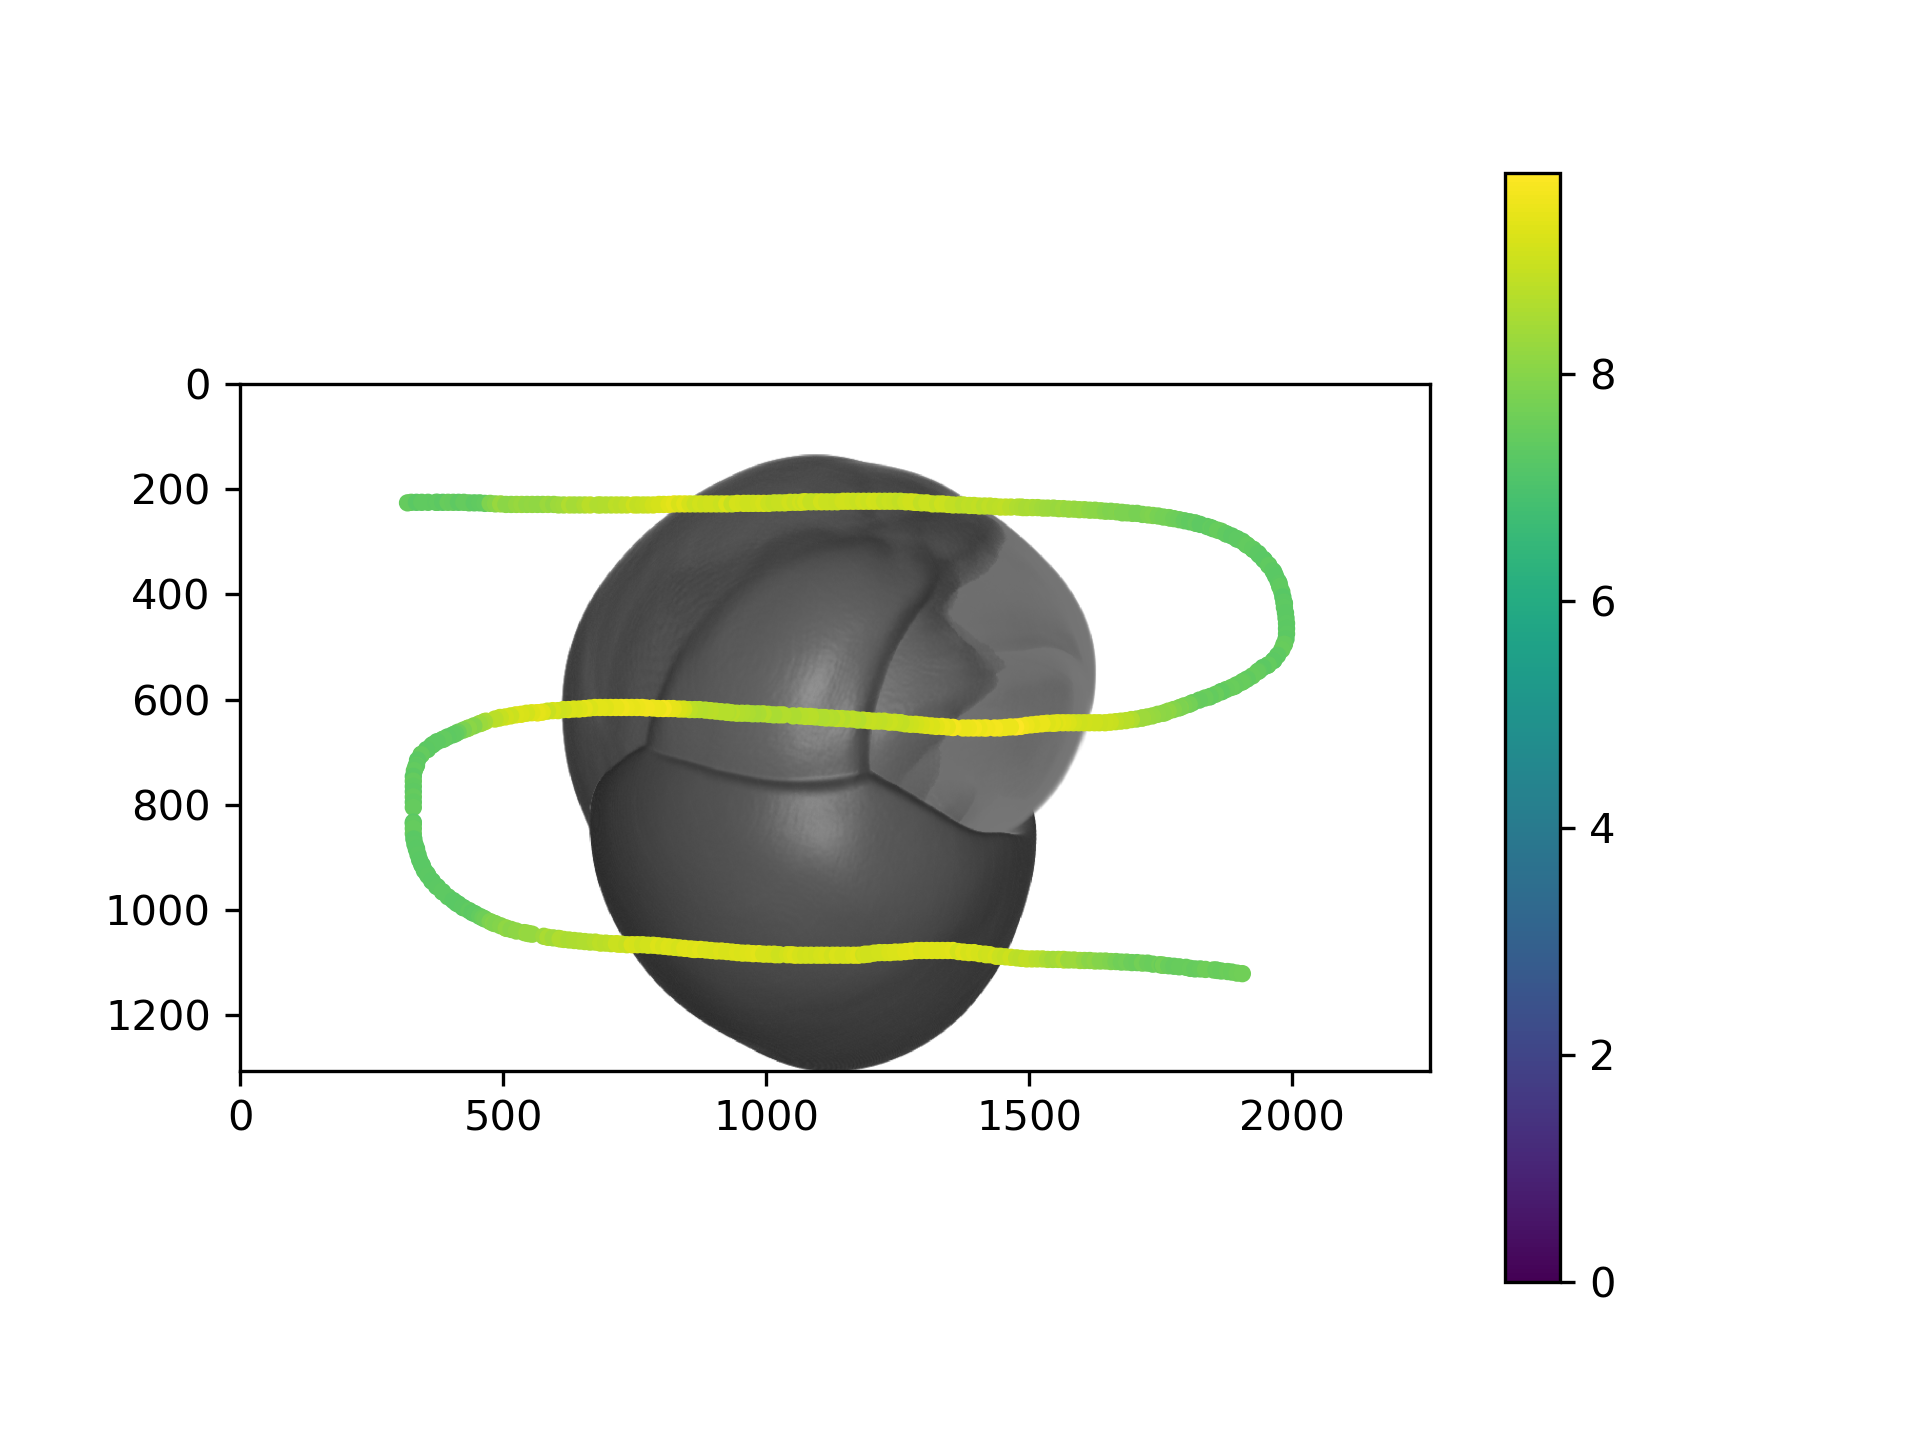
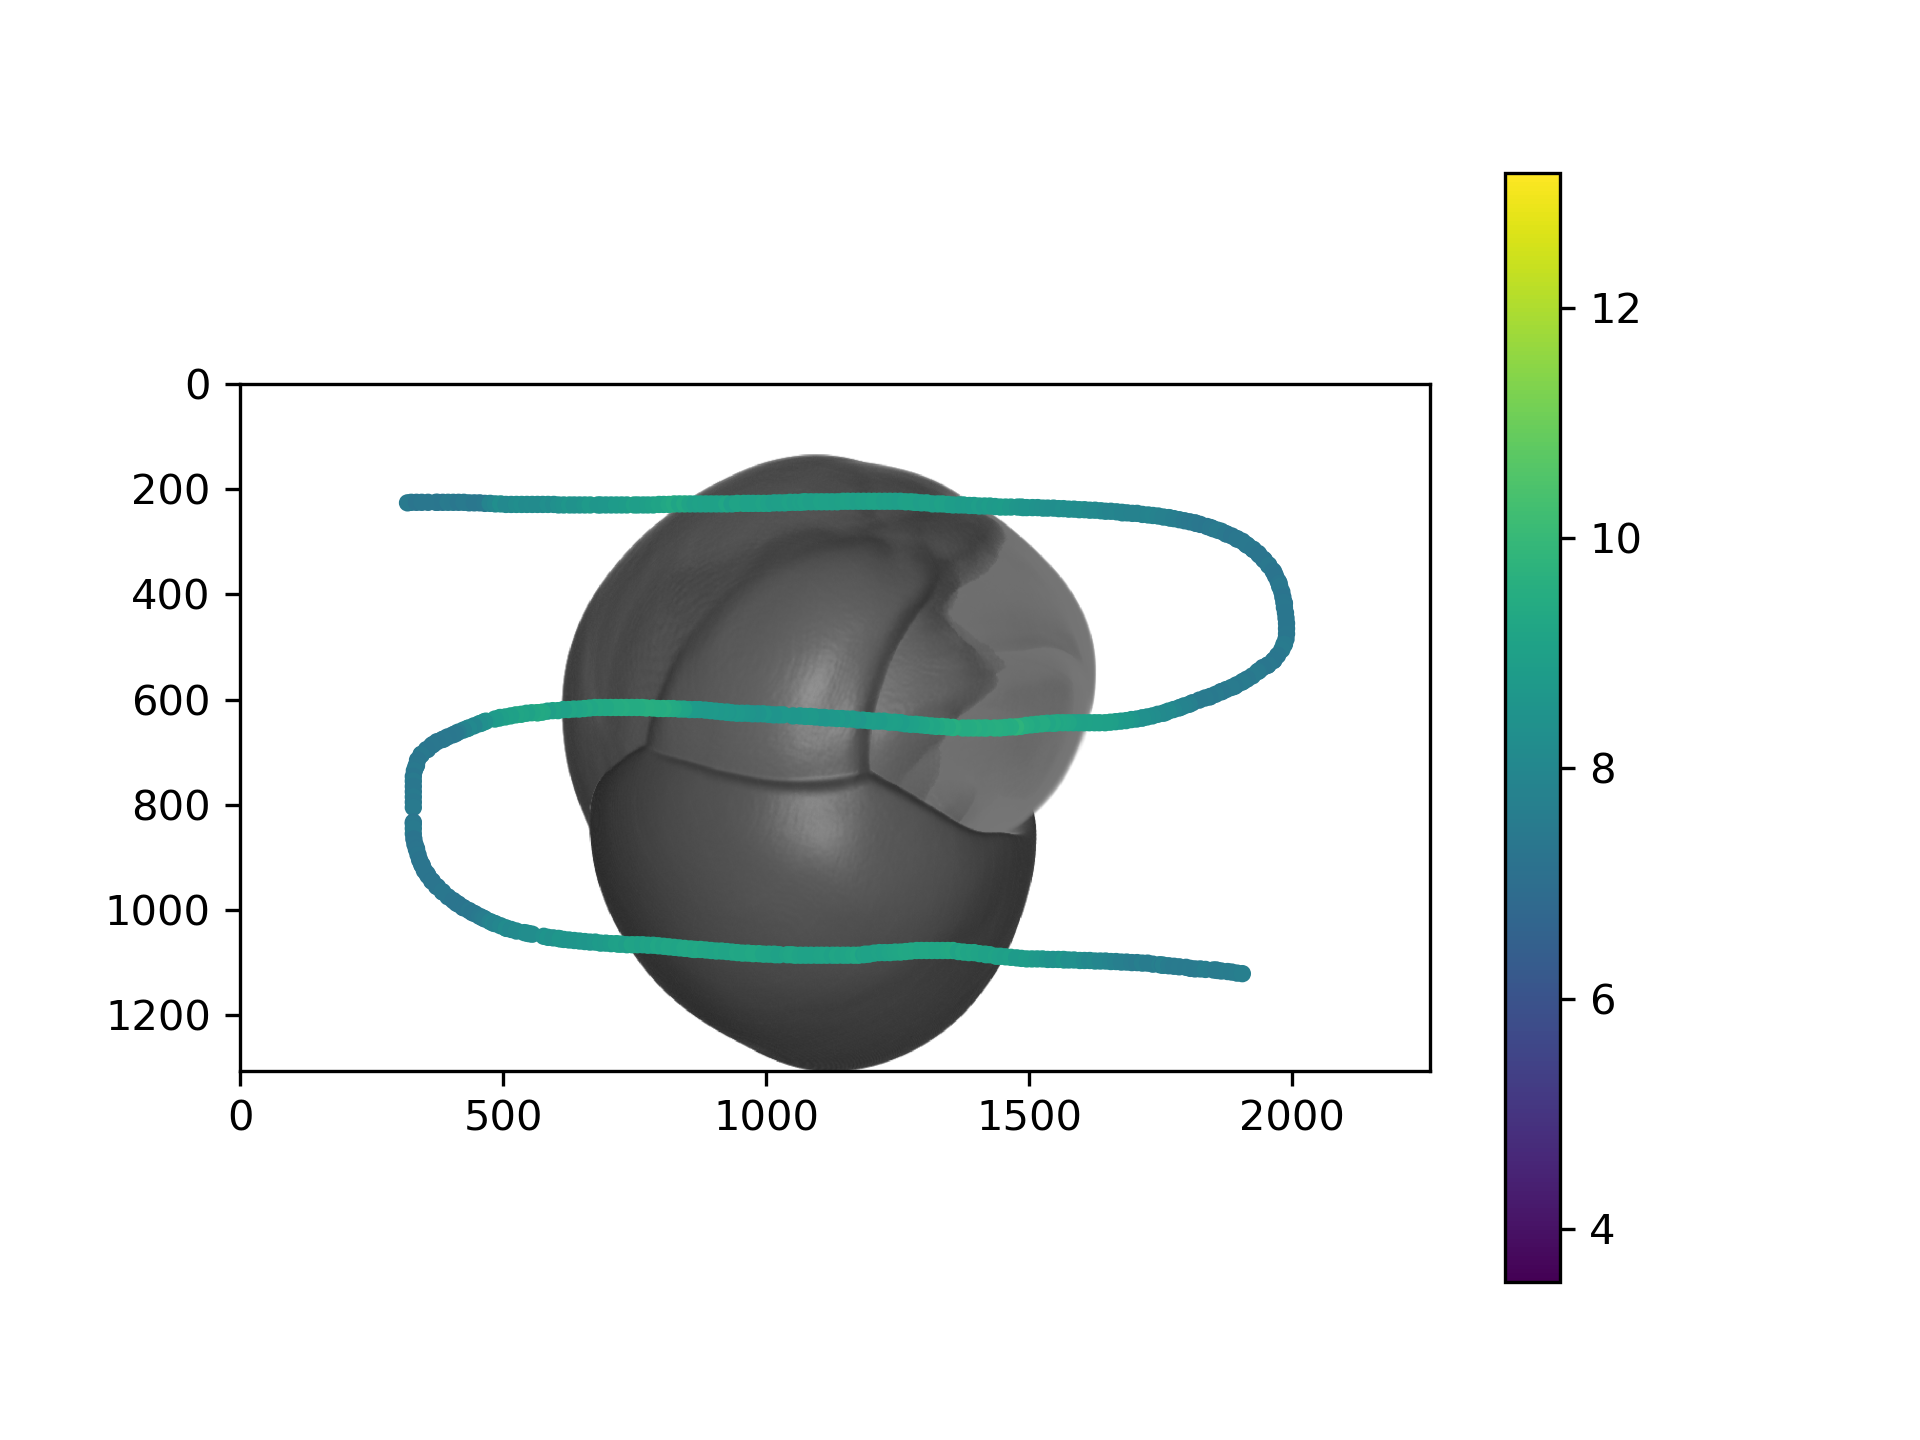
Ausarbeitung: Skript umgeschrieben, dass die Farbwerte je Transferfunktion einen gemeinsamen max und min Wert besitzen. Damit wurden die Heatmaps erneuert.

diff --git a/Dokumente/Python Auswertung/create_heatmaps.py b/Dokumente/Python Auswertung/create_heatmaps.py
@@ -45,7 +45,7 @@ def axes_from_data(ms_data):
 
 # plots the picture as background and the data read from a ms data file on top of it as a colormap
 # saves the plot the clears it
-def plot_and_save(picture_path, data_path):
+def plot_and_save(picture_path, data_path, min_sc, max_sc):
     print 'plot_and_save: ', picture_path, data_path
 
     image = mpimg.imread(picture_path)  # read image_data
@@ -58,7 +58,10 @@ def plot_and_save(picture_path, data_path):
     # normalize = mplib.colors.Normalize(vmin=min(z), vmax=max(z))  # create a normalization function for z
     # colors = [cmap(normalize(value)) for value in z]  # use normalize function to normalize and map z values to color
 
-    sc = plt.scatter(x=x, y=y, c=z, s=10, vmin=0, vmax=max(z), cmap=cmap)
+    # sc = plt.scatter(x=x, y=y, c=z, s=10, vmin=min(z), vmax=max(z), cmap=cmap)
+
+    # use min max for better comparison
+    sc = plt.scatter(x=x, y=y, c=z, s=10, vmin=min_sc, vmax=max_sc, cmap=cmap)
     plt.colorbar(sc)
 
     '''fig, ax = plt.subplot(figsize=(10,10))
@@ -90,8 +93,14 @@ def main():
             for mmst in mmsts:
                 print 'current m-type:', mmst
                 path = msr_path + dir + '/' + mmst + '/'  # path to the folder the measurements are in
-                plot_and_save(path + 'image_st.png', path + 'ms_data_ddc.txt')
-                plot_and_save(path + 'image_st.png', path + 'ms_data_mdc.txt')
+                values1 = axes_from_data(read_data(path + 'ms_data_ddc.txt'))  # first
+                values2 = axes_from_data(read_data(path + 'ms_data_mdc.txt'))  # second
+
+                min_v = min(min(values1[2]), min(values2[2]))
+                max_v = max(max(values1[2]), max(values2[2]))
+
+                plot_and_save(path + 'image_st.png', path + 'ms_data_ddc.txt', min_v, max_v)
+                plot_and_save(path + 'image_st.png', path + 'ms_data_mdc.txt', min_v, max_v)
 
         if dir == 'hoatzin':
             for mmst in mmsts:
@@ -99,8 +108,14 @@ def main():
                 if mmst == mmsts[0]:
                     continue  # skip first one because there is nothing measured
                 path = msr_path + '/' + dir + '/' + mmst + '/'  # path to the folder the measurements are in
-                plot_and_save(path + 'image_st.png', path + 'ms_data_ddc.txt')
-                plot_and_save(path + 'image_st.png', path + 'ms_data_mdc.txt')
+                values1 = axes_from_data(read_data(path + 'ms_data_ddc.txt'))  # first
+                values2 = axes_from_data(read_data(path + 'ms_data_mdc.txt'))  # second
+
+                min_v = min(min(values1[2]), min(values2[2]))
+                max_v = max(max(values1[2]), max(values2[2]))
+
+                plot_and_save(path + 'image_st.png', path + 'ms_data_ddc.txt', min_v, max_v)
+                plot_and_save(path + 'image_st.png', path + 'ms_data_mdc.txt', min_v, max_v)
 
     print 'End'
     return
